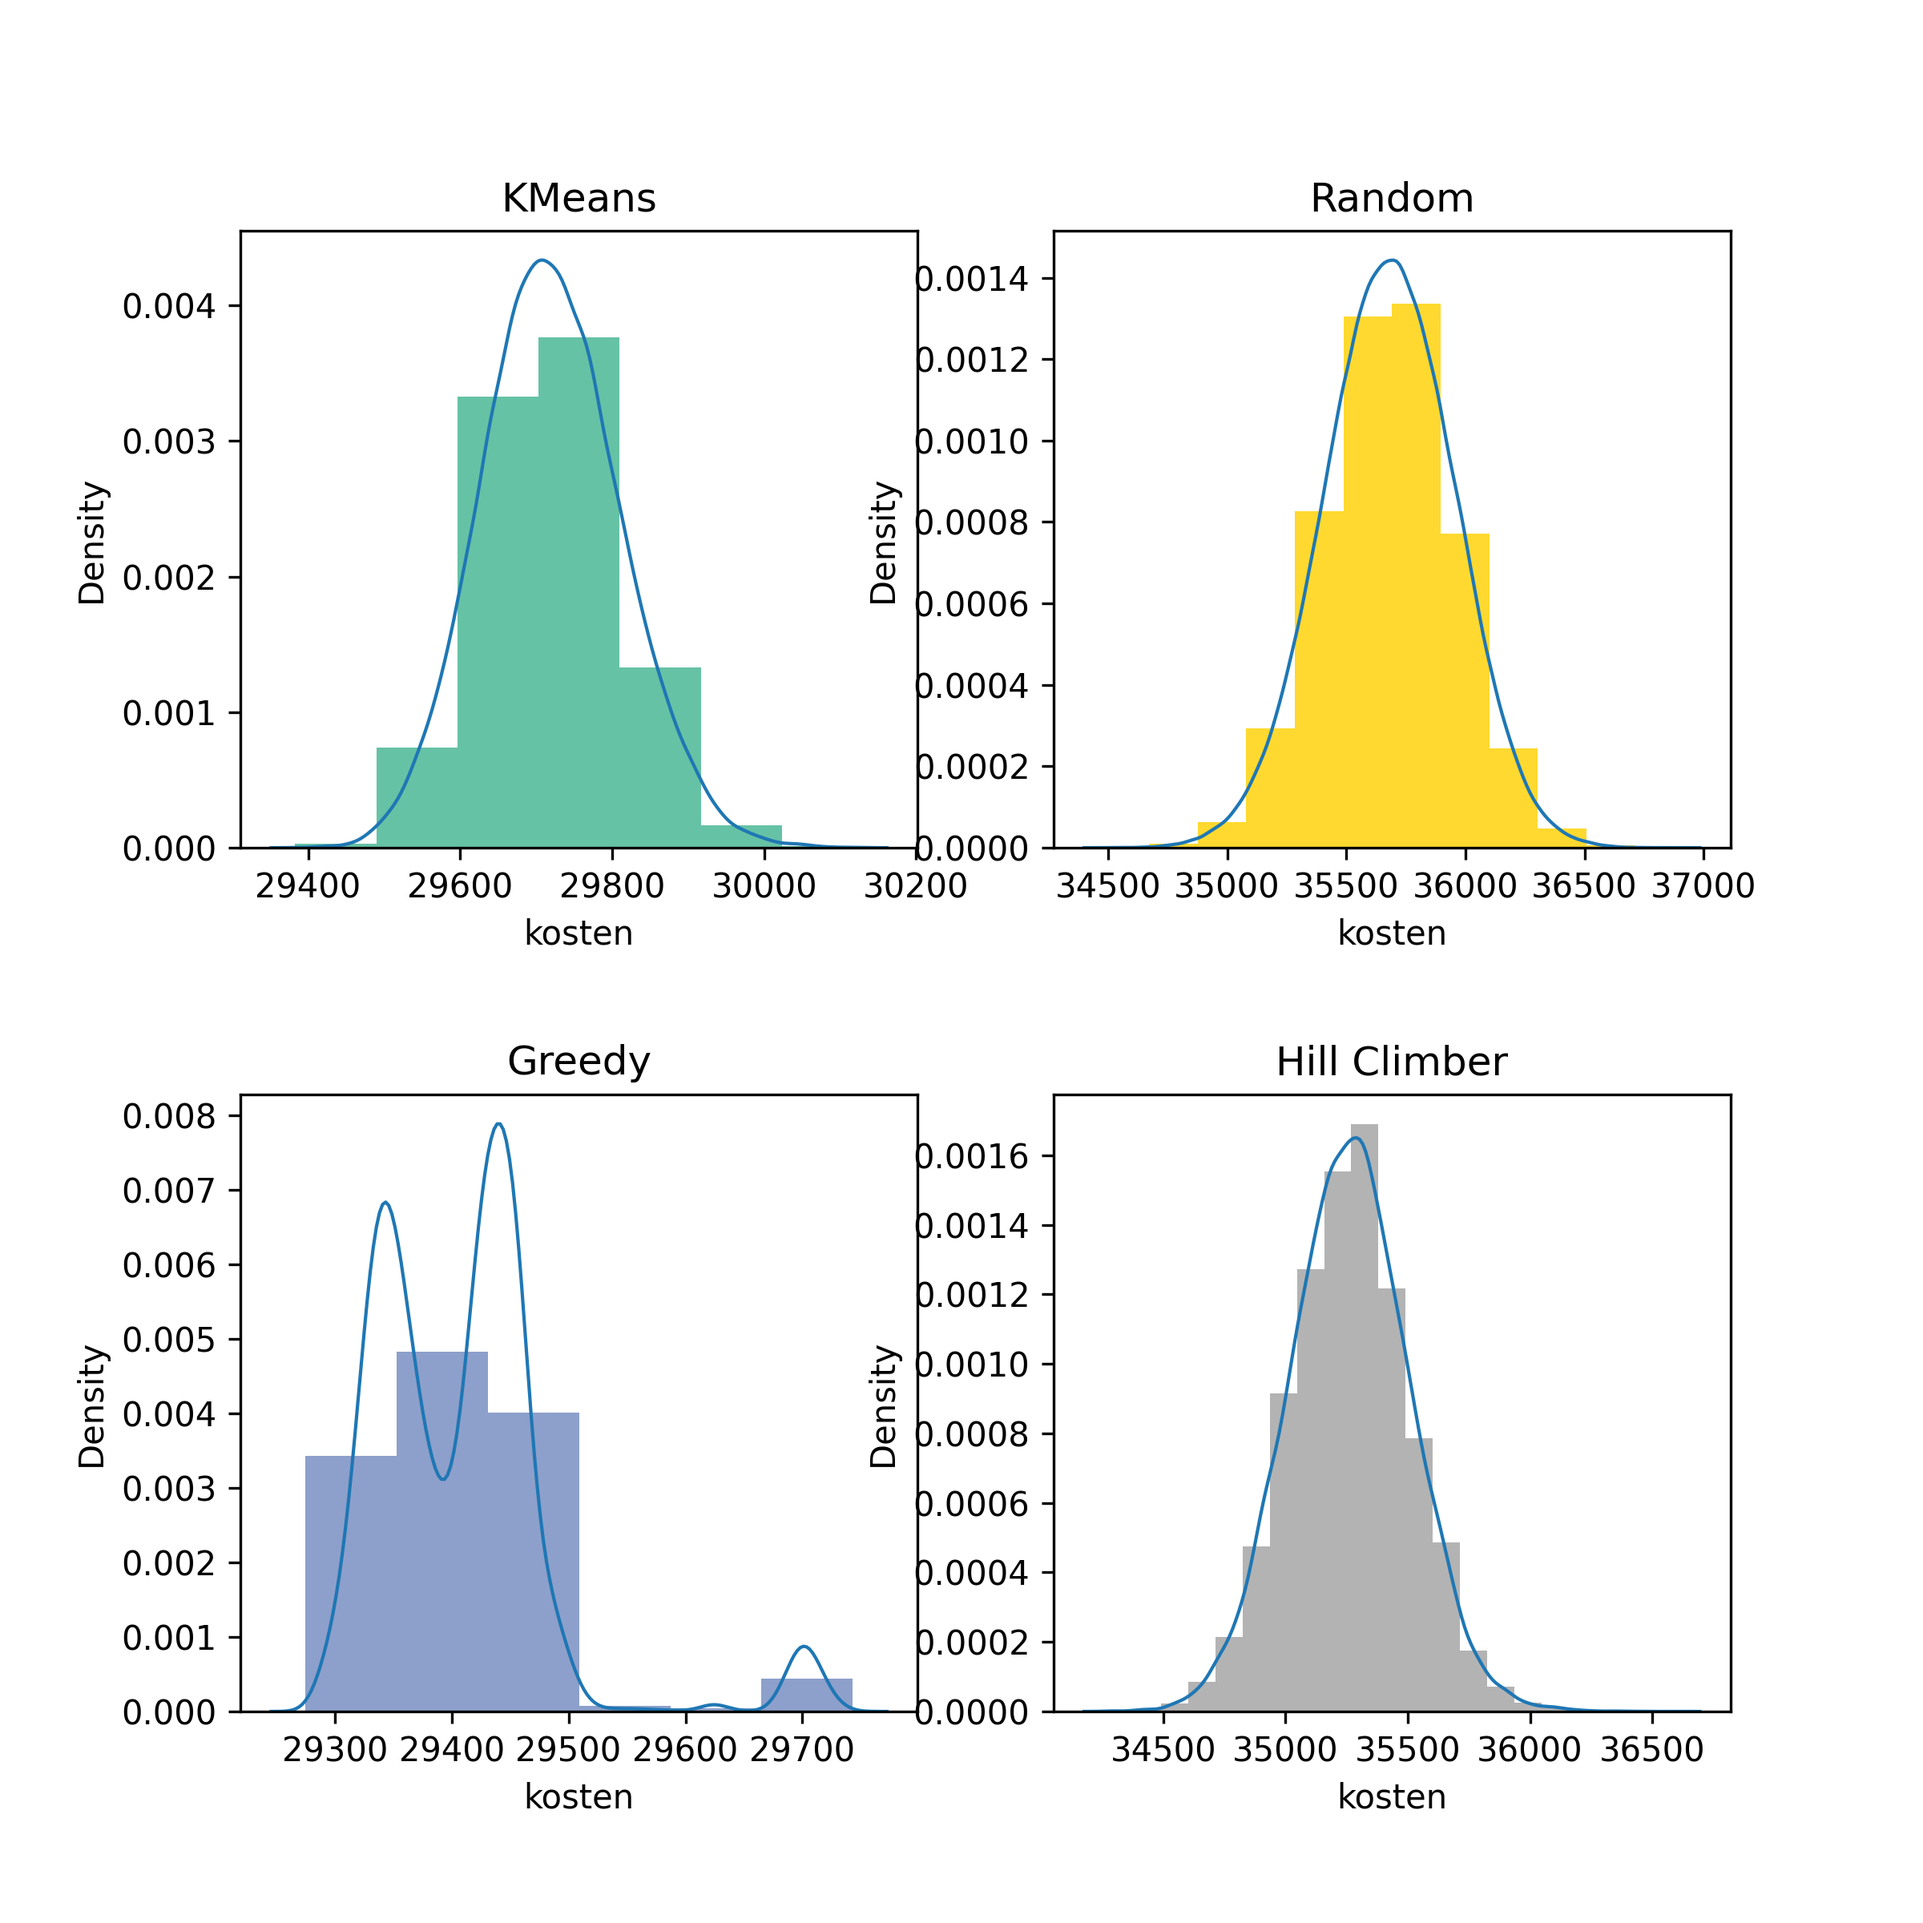
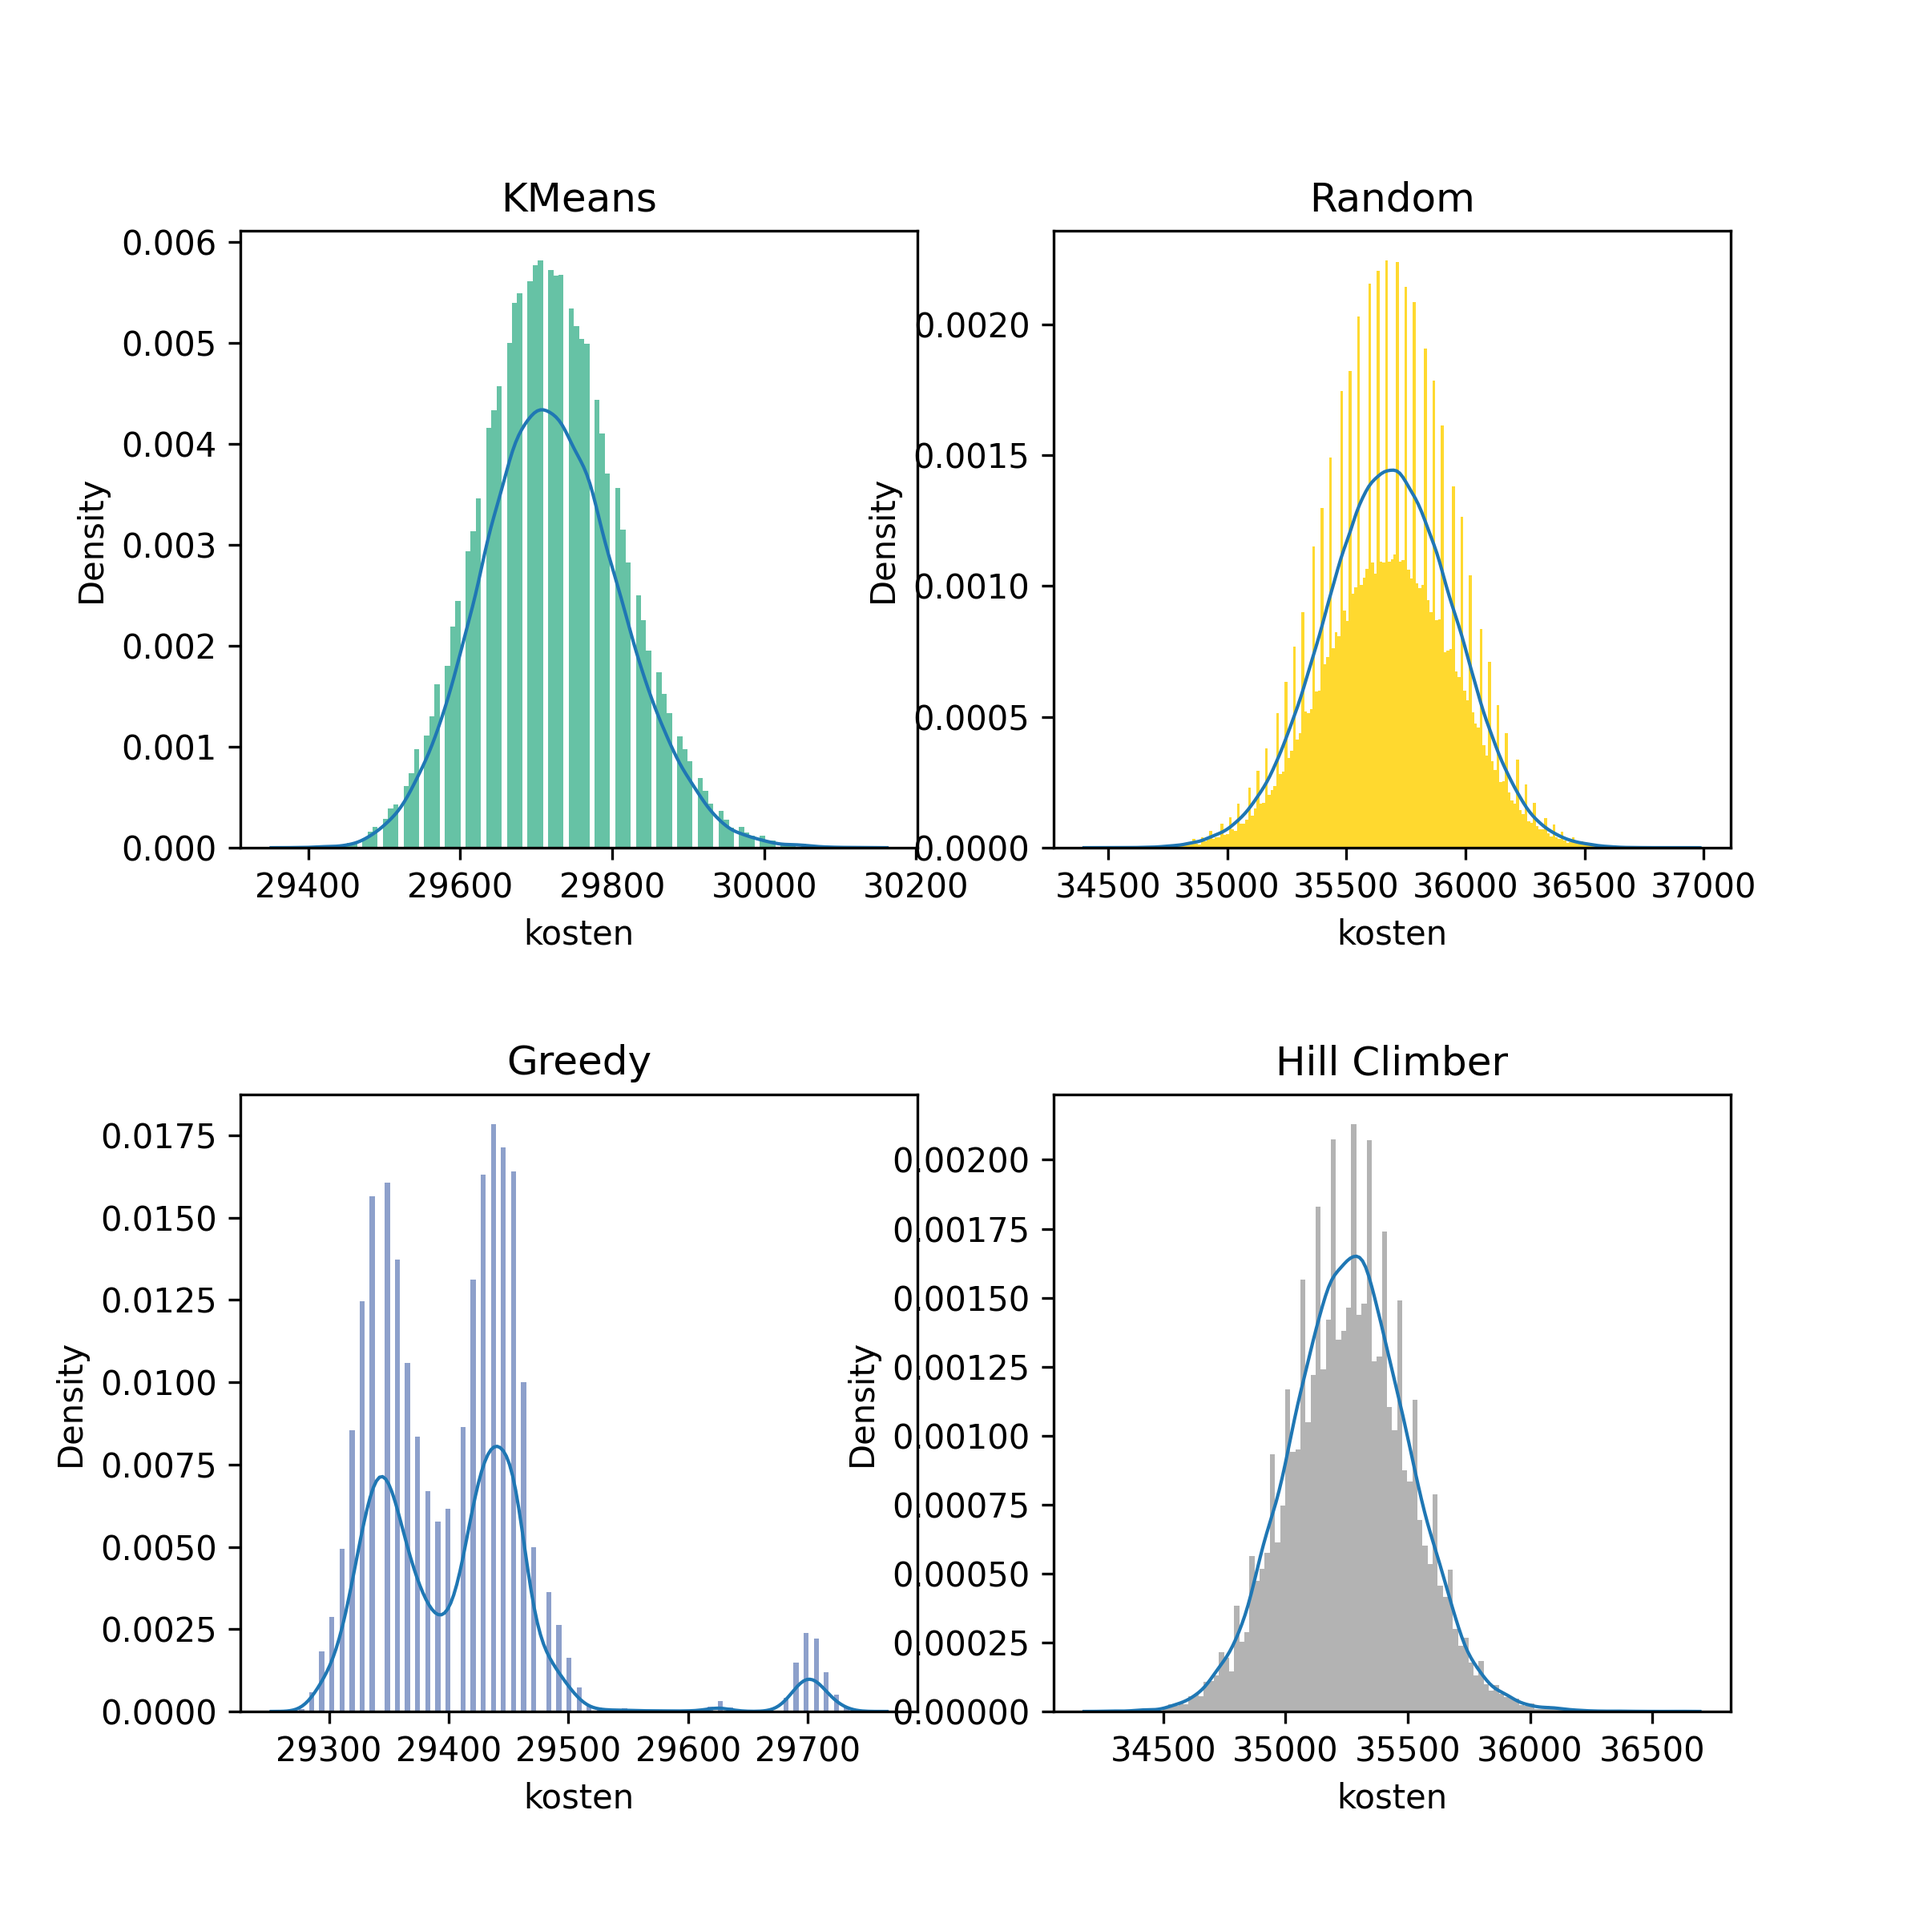
Refactoring

diff --git a/code/visualisatie/grafiek.py b/code/visualisatie/grafiek.py
@@ -34,13 +34,13 @@ def histogram(soort):
         if soort == 'subplot':
             fig, axs = plt.subplots(2, 2, figsize=(8, 8))
             plt.subplots_adjust(hspace=0.4)
-            axs[0, 0].hist(kmeans, density=True, color=kleuren[0], bins=7)
+            axs[0, 0].hist(kmeans, density=True, color=kleuren[0], bins='auto')
             axs[0, 0].set_title('KMeans')
-            axs[1, 0].hist(greedy, density=True, color=kleuren[1], bins=6)
+            axs[1, 0].hist(greedy, density=True, color=kleuren[1], bins='auto')
             axs[1, 0].set_title('Greedy')
-            axs[0, 1].hist(random, density=True, color=kleuren[2], bins=12)
+            axs[0, 1].hist(random, density=True, color=kleuren[2], bins='auto')
             axs[0, 1].set_title('Random')
-            axs[1, 1].hist(hillclimb, density=True, color=kleuren[3], bins=21)
+            axs[1, 1].hist(hillclimb, density=True, color=kleuren[3], bins='auto')
             axs[1, 1].set_title('Hill Climber')
 
             sns.kdeplot(kmeans, ax=axs[0, 0], linewidth=1)
@@ -57,16 +57,16 @@ def histogram(soort):
         if soort == 'hoofdplot':
             plt.hist(kmeans, density=True, color=kleuren[0], label='KMeans',
                      alpha=0.5,
-                     bins=7)
+                     bins='auto')
             plt.hist(greedy, density=True, color=kleuren[1], label='Greedy',
                      alpha=0.5,
-                     bins=6)
+                     bins='auto')
             plt.hist(random, density=True, color=kleuren[2], label='Random',
                      alpha=0.5,
-                     bins=12)
+                     bins='auto')
             plt.hist(hillclimb, density=True, color=kleuren[3],
                      label='Hill Climber',
-                     alpha=0.5, bins=21)
+                     alpha=0.5, bins='auto')
             sns.kdeplot(kmeans, linewidth=1)
             sns.kdeplot(greedy, linewidth=1)
             sns.kdeplot(random, linewidth=1)

diff --git a/code/helpers/experiment.py b/code/helpers/experiment.py
@@ -1,6 +1,7 @@
 from code.algoritmes import random_alg, kmeans, greedy, hill_climbing
 from code.helpers import csv_writer, helpers
 from code.visualisatie import smartgrid
+from scipy.stats import f_oneway, kruskal
 import pandas as pd
 import os
 from tqdm import tqdm
@@ -40,3 +41,17 @@ def run_experiment(algoritme: str, wijk: int, runs=1) -> None:
             print(f"Nieuw goedkoopst run: {df['kosten'].min()}")
             run.jsonify(run.wijk, algoritme)
             smartgrid.visualisatie(algoritme, run.wijk)
+
+
+def stat_test(wijknummer, test):
+    cwd = os.getcwd()
+    sep = os.sep
+    kmeans = pd.read_csv(cwd + f'{sep}Huizen&Batterijen{sep}experiment{sep}KMeans_{wijknummer}_experiment.csv')['kosten']
+    greedy = pd.read_csv(cwd + f'{sep}Huizen&Batterijen{sep}experiment{sep}Greedy_{wijknummer}_experiment.csv')['kosten']
+    random = pd.read_csv(cwd + f'{sep}Huizen&Batterijen{sep}experiment{sep}Random_{wijknummer}_experiment.csv')['kosten']
+    hillclimb = pd.read_csv(cwd + f'{sep}Huizen&Batterijen{sep}experiment{sep}Hill_{wijknummer}_experiment.csv')['kosten']
+
+    if test == 'ANOVA':
+        print(f'One-Way ANOVA: {f_oneway(kmeans, greedy, random, hillclimb)}')
+    if test == 'Kruskal':
+        print(f'Kruskal-Wallis: {kruskal(kmeans, greedy, random, hillclimb)}')

diff --git a/Huizen&Batterijen/experiment/testen.py b/Huizen&Batterijen/experiment/testen.py
@@ -1,5 +1,4 @@
 import pandas as pd
-import numpy as np
 from scipy.stats import f_oneway, kruskal
 
 
@@ -8,10 +7,7 @@ def stat_test(wijknummer, test):
     greedy = pd.read_csv(f'Greedy_{wijknummer}_experiment.csv')['kosten']
     random = pd.read_csv(f'Random_{wijknummer}_experiment.csv')['kosten']
     hillclimb = pd.read_csv(f'Hill_{wijknummer}_experiment.csv')['kosten']
-    q3, q1 = np.percentile(hillclimb, [75, 25])
-    print(len(hillclimb))
-    iqr = q3 - q1
-    print(iqr)
+
     if test == 'ANOVA':
         print(f'One-Way ANOVA: {f_oneway(kmeans, greedy, random, hillclimb)}')
     if test == 'Kruskal':

diff --git a/main.py b/main.py
@@ -18,6 +18,9 @@ if __name__ == "__main__":
         experiment.run_experiment("Hill", wijk_kiezen, aantal_runs)
     elif algoritme_kiezen == 'K' or algoritme_kiezen == "KMeans":
         experiment.run_experiment("KMeans", wijk_kiezen, aantal_runs)
+    elif algoritme_kiezen == 'K' or algoritme_kiezen == "Hypothese":
+        experiment.stat_test(wijk_kiezen, 'ANOVA')
+        experiment.stat_test(wijk_kiezen, 'Kruskal')
     elif algoritme_kiezen == 'Test':
         cwd = os.getcwd()
         grafiek.hill_climber_grafiek(f'{cwd}/Huizen&Batterijen/experiment/'
